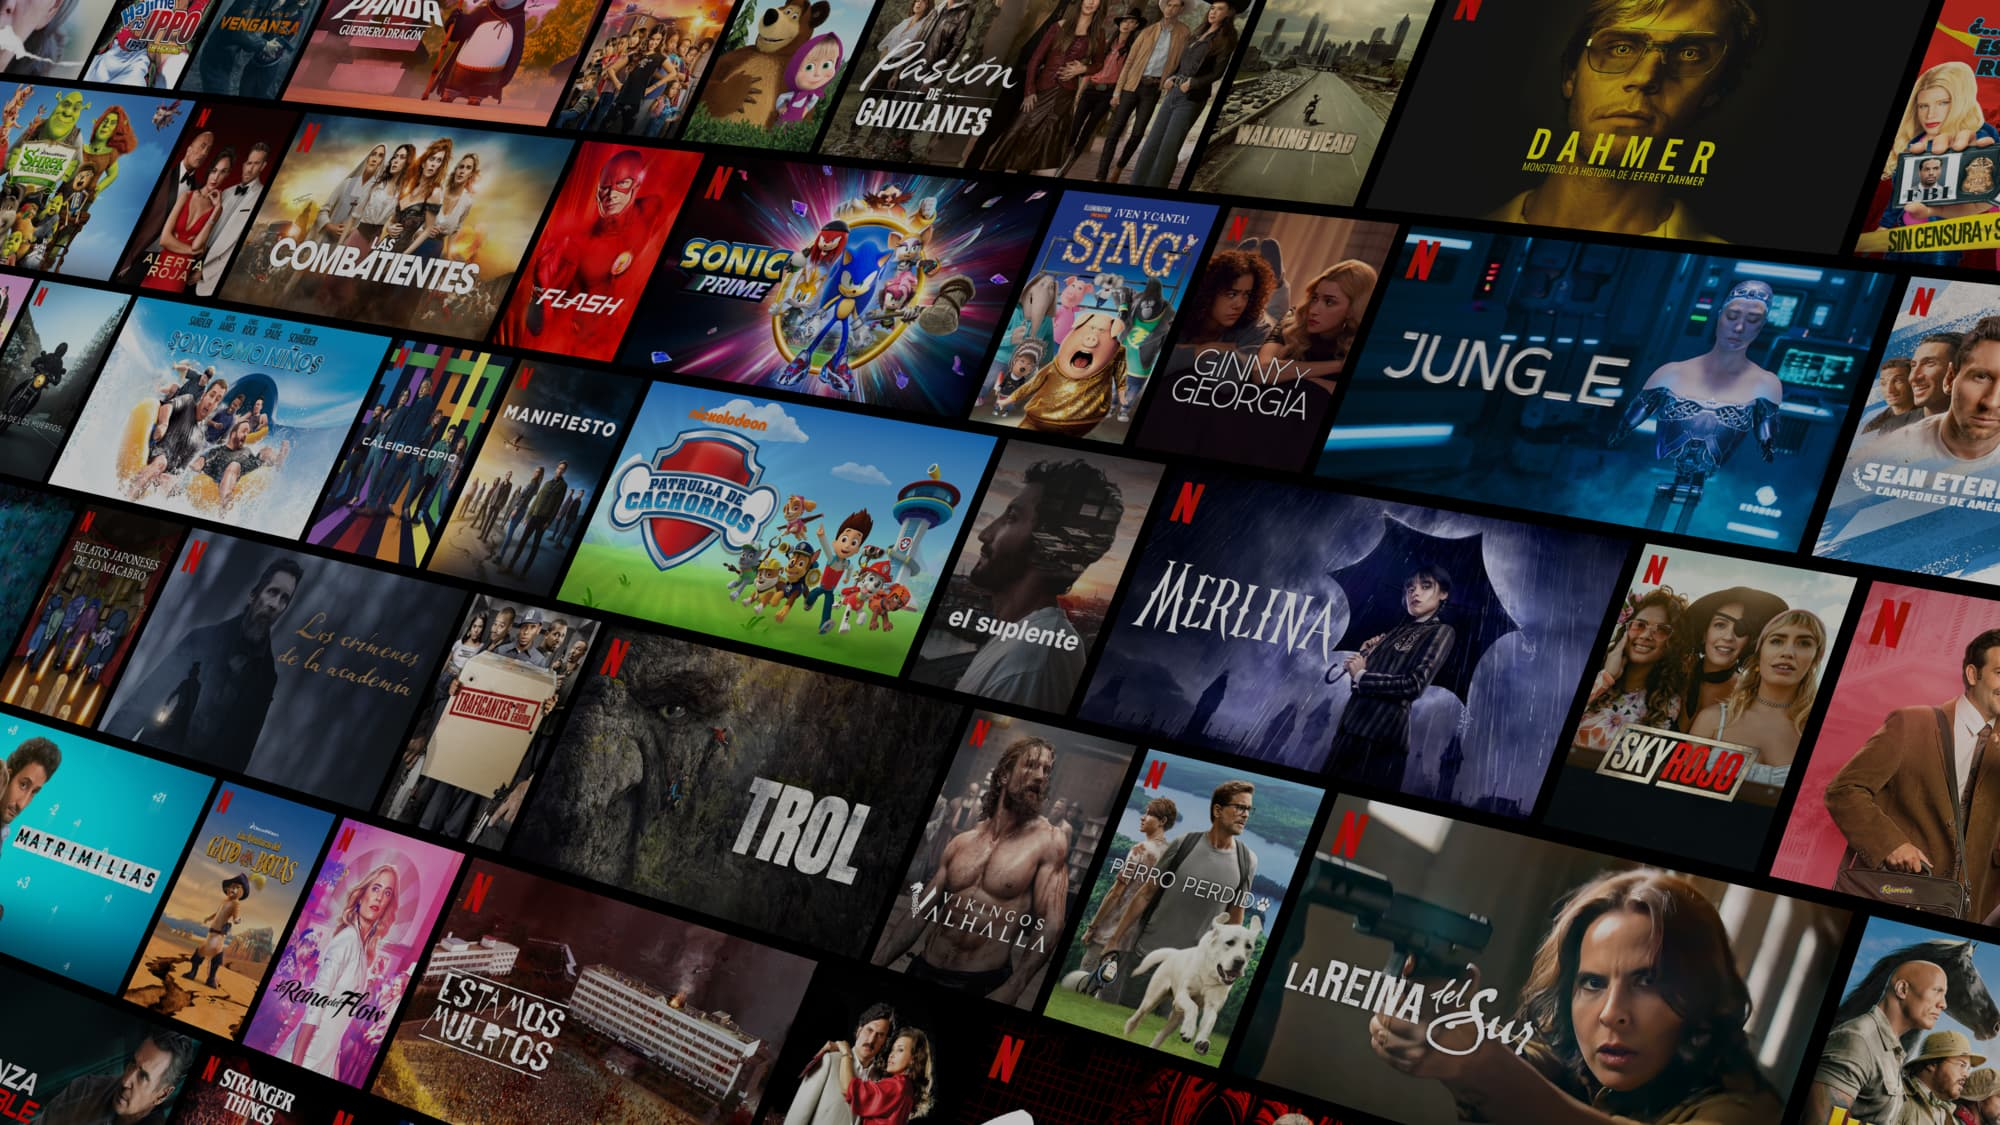
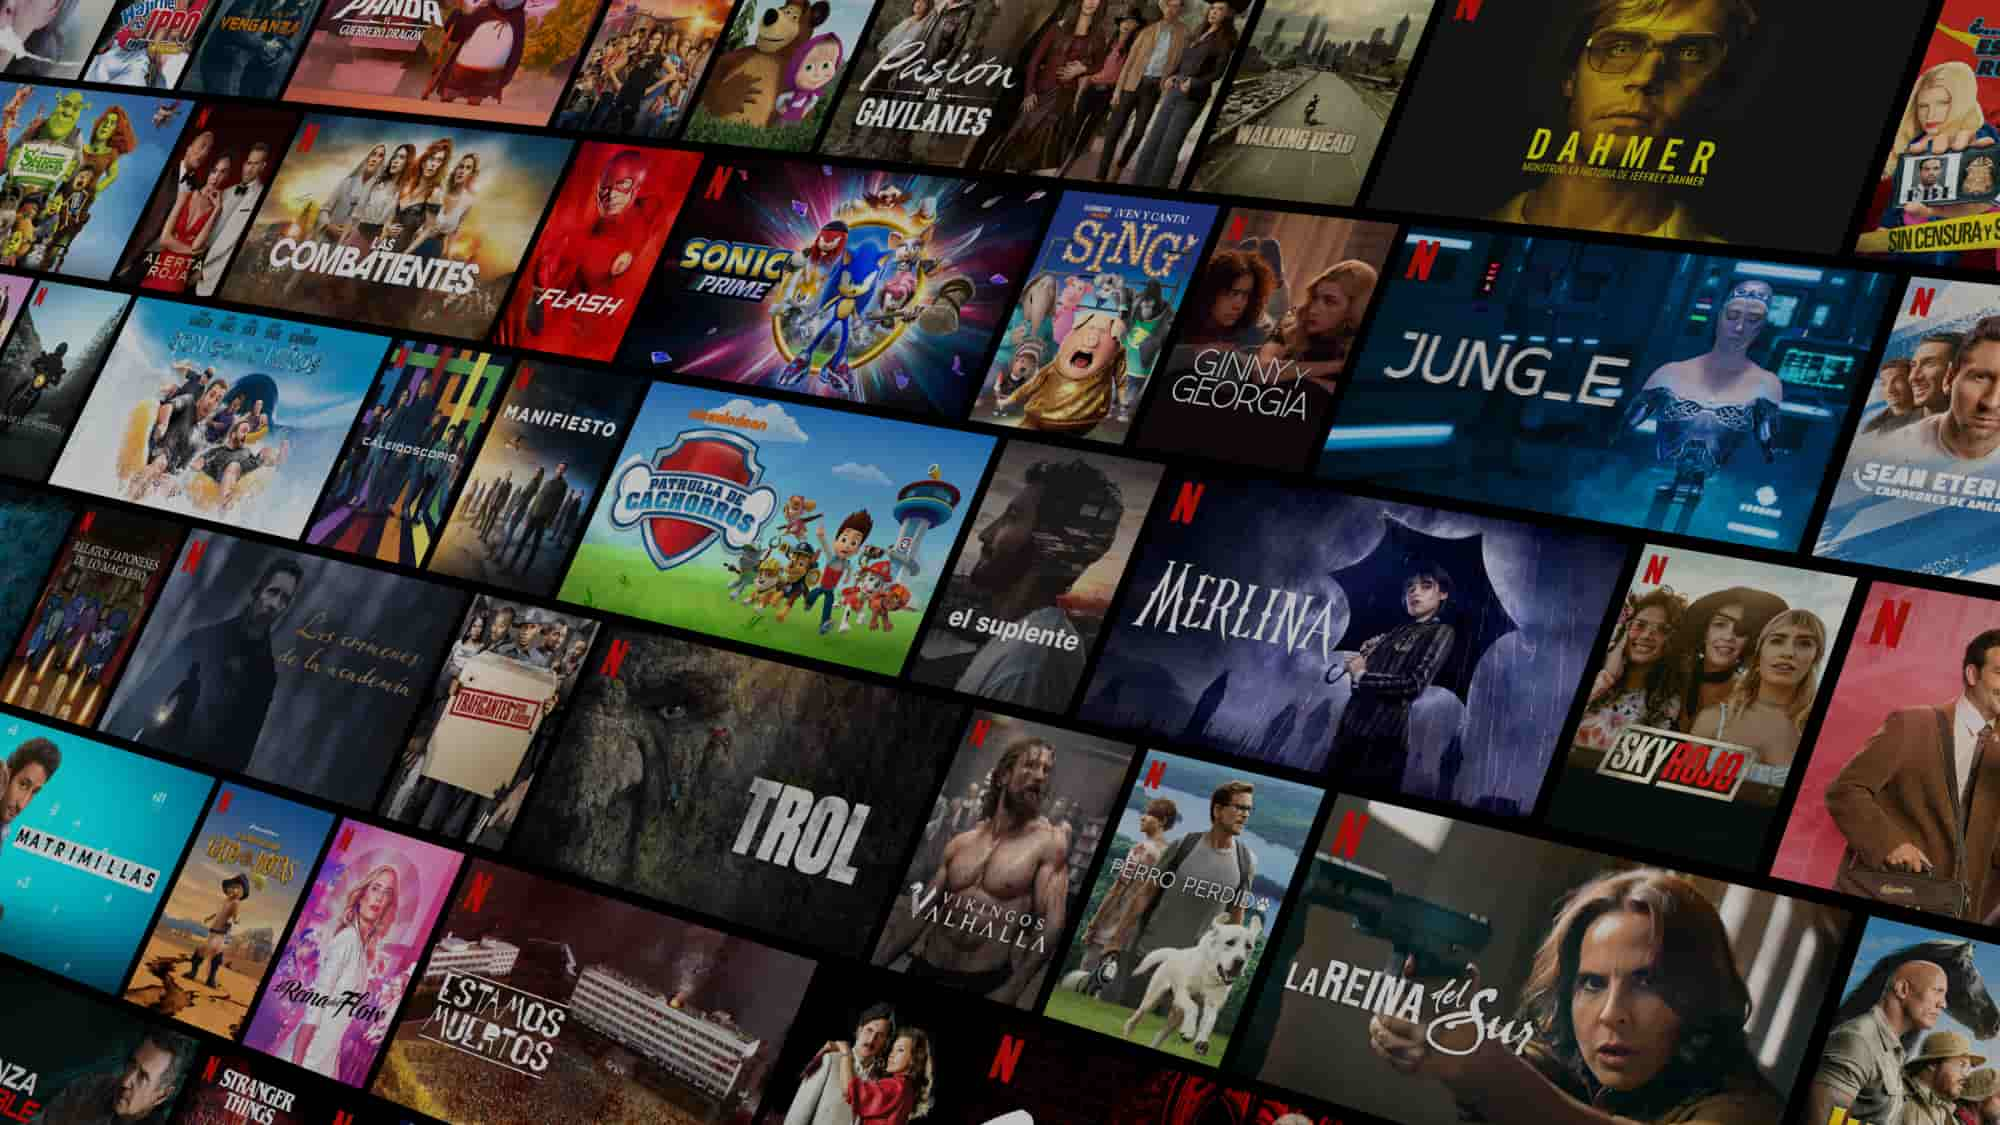
changes in hero section in home

diff --git a/src/pages/home/Home.jsx b/src/pages/home/Home.jsx
@@ -1,15 +1,32 @@
 import React from 'react'
 import { Link } from 'react-router-dom'
 import Styles from './Home.module.css'
+import logo from '../../assets/netflix.png'
 
 export const Home = () => {
   return (
     <div className={Styles.container}>
-      <nav className={Styles.nav__container}>
-        <span></span>
-        <div></div>
-        <Link to={'/login'}>Iniciar sesión</Link>
-      </nav>
+      <div className={Styles.hero__bg}>
+        <div>
+          <nav className={Styles.nav__container}>
+            <span className={Styles.nav__span}><img src={logo} alt="logo" /></span>
+            <div>
+              <select className={Styles.nav__select}>
+                <option value="/ar/" data-language="es">Español</option>
+                <option value="/ar-en/" data-language="en">English</option>
+              </select>
+            </div>
+            <Link className={Styles.nav__button} to={'/login'}>Iniciar sesión</Link>
+          </nav>
+          <div className={Styles.hero__bg_opacity}></div>
+        </div>
+
+      </div>
+
+        {/* <div className={Styles.hero__card}>
+
+          <div>Lorem ipsum dolor sit amet consectetur, adipisicing elit. Vel doloribus reprehenderit nostrum dolores magni quasi et adipisci natus assumenda, inventore saepe quis deleniti dolorum repudiandae nam tempora? Deleniti, praesentium unde.</div>
+        </div> */}
     </div>
  )
 }

diff --git a/src/index.css b/src/index.css
@@ -1,70 +1,4 @@
-:root {
-  font-family: Inter, Avenir, Helvetica, Arial, sans-serif;
-  font-size: 16px;
-  line-height: 24px;
-  font-weight: 400;
-
-  color-scheme: light dark;
-  color: rgba(255, 255, 255, 0.87);
-  background-color: #242424;
-
-  font-synthesis: none;
-  text-rendering: optimizeLegibility;
-  -webkit-font-smoothing: antialiased;
-  -moz-osx-font-smoothing: grayscale;
-  -webkit-text-size-adjust: 100%;
-}
-
-a {
-  font-weight: 500;
-  color: #646cff;
-  text-decoration: inherit;
-}
-a:hover {
-  color: #535bf2;
-}
-
 body {
   margin: 0;
-  display: flex;
-  place-items: center;
-  min-width: 320px;
-  min-height: 100vh;
-}
-
-h1 {
-  font-size: 3.2em;
-  line-height: 1.1;
-}
-
-button {
-  border-radius: 8px;
-  border: 1px solid transparent;
-  padding: 0.6em 1.2em;
-  font-size: 1em;
-  font-weight: 500;
-  font-family: inherit;
-  background-color: #1a1a1a;
-  cursor: pointer;
-  transition: border-color 0.25s;
-}
-button:hover {
-  border-color: #646cff;
-}
-button:focus,
-button:focus-visible {
-  outline: 4px auto -webkit-focus-ring-color;
-}
-
-@media (prefers-color-scheme: light) {
-  :root {
-    color: #213547;
-    background-color: #ffffff;
-  }
-  a:hover {
-    color: #747bff;
-  }
-  button {
-    background-color: #f9f9f9;
-  }
+  padding: 0;
 }

diff --git a/src/pages/home/Home.module.css b/src/pages/home/Home.module.css
@@ -1,10 +1,68 @@
 
-
 .container {
   width: 100%;
   overflow-x: hidden;
 }
 
-.nav__container {
-
+.hero__bg {
+  background: rgba(0,0,0,.4);
+  background-image: linear-gradient(0deg,rgba(0,0,0,.8) 0,transparent 60%,rgba(0,0,0,.8));
 }
+
+.hero__bg > div {
+  
+}
+
+.hero__bg_opacity {
+  position: relative;
+  background-image: url('../../assets/bg.jpg');
+  height: 734px;
+  background-size: cover;
+  z-index: -1;
+  top: -100px;
+}
+
+.nav__container {
+  position: relative;
+  display: flex;
+  align-items: center;
+  margin: 0 3.5rem;
+  padding-top: 0.5rem;
+  z-index: 10;
+}
+
+.nav__span{
+  margin-right: auto;
+  height: 2.8125rem;
+}
+
+.nav__span img {
+  width: 206px;
+}
+
+.nav__select {
+  line-height: 1.3em;
+  overflow: hidden;
+  padding-left: 1.375rem;
+  padding-right: 1.375rem;
+  white-space: nowrap;
+}
+
+.nav__button {
+  background-color: #e50914;
+  float: right;
+  font-size: 1rem;
+  font-weight: 400;
+  line-height: normal;
+  padding: 7px 17px;
+  text-decoration: none;
+  color: white;
+  font-family: Helvetica, sans-serif;
+}
+
+.hero__card {
+  background: transparent;
+  border-bottom: 8px solid #222;
+  color: #fff;
+}
+

diff --git a/src/App.jsx b/src/App.jsx
@@ -1,13 +1,17 @@
-
-import Styles from './App.module.css'
+import { Route, Routes, BrowserRouter as Router } from 'react-router-dom';
+import { Home } from './pages/home/Home';
+import { Login } from './pages/login/Login';
 
 function App() {
 
   return (
-    <div className={Styles.container}>
-      
-    </div>
+      <Router>
+        <Routes>
+            <Route path='/' element={<Home />}/>
+            <Route path='/login' element={<Login />}/>
+        </Routes>
+      </Router>
   )
 }
 
-export default App
+export default App;

diff --git a/src/pages/login/Login.jsx b/src/pages/login/Login.jsx
@@ -1,0 +1,7 @@
+import React from 'react'
+
+export const Login = () => {
+  return (
+    <div>Login</div>
+  )
+}

diff --git a/src/App.module.css b/src/App.module.css
@@ -4,6 +4,3 @@
   box-sizing: border-box;
 }
 
-.container {
-  font-family: Netflix Sans,Helvetica,Roboto;
-}
